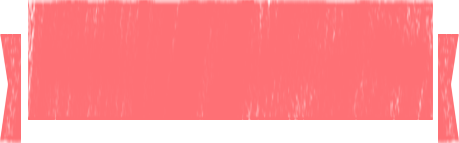
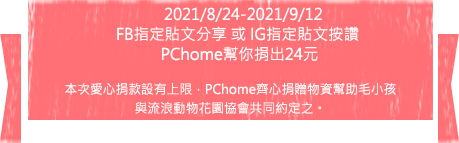
lesson2完成

diff --git a/index.html b/index.html
@@ -11,6 +11,9 @@
 </head>
 
 <body>
+
+    <div id="fb-root"></div>
+<script async defer crossorigin="anonymous" src="https://connect.facebook.net/zh_TW/sdk.js#xfbml=1&version=v14.0" nonce="Nq3a1DJ4"></script>
     <!-- 切版的模式 -->
 
     <div class="main">
@@ -45,7 +48,7 @@
                             </div>
                         </div>
                         <!-- 箭頭 -->
-                        
+
                         <img class="lessone1_right lesson1_btn" src="img/lesson1/lesson1_right.png" alt="">
 
                     </div>
@@ -71,12 +74,44 @@
 
         </div>
         <!-- lesson2 -->
-        <div class="Main_Size lesson2"></div>
+        <div class="Main_Size lesson2">
+            <!-- title -->
+            <img class="lesson2_title" src="./img/lesson2/lesson2_title.png" alt="">
+
+            <div class="lesson2_content">
+                <img class="pc lesson2_cat" src="./img/lesson2/lesson2_cat.png" alt="">
+                <!-- 左邊的臉書 -->
+                <div class="lessone_fb">
+                    <img src="./img/lesson2/fb_top.png" alt="">
+                    <div class="fb_mid">
+                        <div class="fb-post" data-href="https://www.facebook.com/jackywuofficial/posts/pfbid022kLAE1ywqcLbXjhqGAxjGDA2k6w96Ao1BcbY24jGtzwfw2xttTJt5SVGqAYWjLPGl" data-width="500" data-show-text="true"><blockquote cite="https://www.facebook.com/jackywuofficial/posts/592603392236286" class="fb-xfbml-parse-ignore"><p>就是現在
+                            鹿希派正在直播
+                            不到10個人在看他們直播！
+                            弟兄們衝一波讓她看看什麼叫做人海～～～～❤❤</p>由<a href="https://www.facebook.com/jackywuofficial">吳宗憲 Jacky Wu</a> 發佈於&nbsp;<a href="https://www.facebook.com/jackywuofficial/posts/592603392236286">2022年7月24日 星期日</a></blockquote></div>
+                    </div>
+                    <img src="./img/lesson2/fb_btn.png" alt="">
+
+                </div>
+                <!-- 右邊的文案 -->
+                <div class="lessone_data">
+                    <p>
+                        你知道除了領養，<br>
+                        還能以助養的方式幫助毛孩嗎？<br>
+                        分享正確觀念，<br>
+                       <img class="lesson2_logo" src="./img/lesson2/lesson2_24h.png" alt="">就幫你捐出<span style="color: red;">24元</span>給流浪動物花園<br>
+                        支持愈多，捐款愈多！
+                    </p>
+                    <img src="./img/lesson2/lesson2_text.png" alt="">
+                </div>
+            </div>
+        </div>
 
     </div>
 
 
-    <script src='https://cdnjs.cloudflare.com/ajax/libs/jquery/3.5.0/jquery.min.js' integrity='sha512-k2WPPrSgRFI6cTaHHhJdc8kAXaRM4JBFEDo1pPGGlYiOyv4vnA0Pp0G5XMYYxgAPmtmv/IIaQA6n5fLAyJaFMA==' crossorigin='anonymous'></script>
+    <script src='https://cdnjs.cloudflare.com/ajax/libs/jquery/3.5.0/jquery.min.js'
+        integrity='sha512-k2WPPrSgRFI6cTaHHhJdc8kAXaRM4JBFEDo1pPGGlYiOyv4vnA0Pp0G5XMYYxgAPmtmv/IIaQA6n5fLAyJaFMA=='
+        crossorigin='anonymous'></script>
     <script src="https://unpkg.com/swiper/swiper-bundle.min.js"></script>
     <script src="all.js"></script>
 </body>

diff --git a/style.css b/style.css
@@ -197,4 +197,139 @@ img {
   right: -20%;
   width: 43%;
 }
+
+.lesson2 {
+  background-image: url(./img/lesson2/lesson2_bg.png);
+  background-position: top center;
+  position: relative;
+}
+
+@media screen and (max-width: 768px) {
+  .lesson2 {
+    background-image: url(./img/lesson2/lesson2_bg_mb.png);
+    background-repeat: no-repeat;
+    margin-top: 5vw;
+    background-size: 100% 100%;
+  }
+}
+
+.lesson2 .lesson2_cat {
+  position: absolute;
+  bottom: 10px;
+  left: 0;
+}
+
+.lesson2 .lesson2_title {
+  position: absolute;
+  right: 150px;
+  top: -30px;
+  width: 33%;
+}
+
+@media screen and (max-width: 768px) {
+  .lesson2 .lesson2_title {
+    position: static;
+    width: 60%;
+    display: block;
+    margin: 0 auto;
+    -webkit-transform: translateY(-4vw);
+            transform: translateY(-4vw);
+  }
+}
+
+.lesson2 .lesson2_content {
+  display: -webkit-box;
+  display: -ms-flexbox;
+  display: flex;
+  margin: 0 130px 0 220px;
+  padding: 50px 0;
+  border: 1px solid #000;
+  gap: 20px;
+}
+
+@media screen and (max-width: 1320px) {
+  .lesson2 .lesson2_content {
+    margin: 0 10vw 0 15vw;
+  }
+}
+
+@media screen and (max-width: 768px) {
+  .lesson2 .lesson2_content {
+    margin: 0;
+    padding: 0 3vw;
+    -webkit-box-orient: vertical;
+    -webkit-box-direction: normal;
+        -ms-flex-direction: column;
+            flex-direction: column;
+  }
+}
+
+.lesson2 .lesson2_content .lessone_fb {
+  width: 40%;
+  margin: 0;
+  padding: 0;
+}
+
+@media screen and (max-width: 768px) {
+  .lesson2 .lesson2_content .lessone_fb {
+    width: 100%;
+    -webkit-box-ordinal-group: 4;
+        -ms-flex-order: 3;
+            order: 3;
+  }
+}
+
+.lesson2 .lesson2_content .lessone_fb img {
+  width: 100%;
+}
+
+.lesson2 .lesson2_content .lessone_fb .fb_mid {
+  overflow: hidden;
+  margin-top: -4px;
+  background-image: url(./img/lesson2/fb_mid.png);
+  background-size: 100%;
+  text-align: center;
+}
+
+.lesson2 .lesson2_content .lessone_fb .fb_mid .fb-post {
+  width: 95%;
+}
+
+.lesson2 .lesson2_content .lessone_data {
+  width: 60%;
+  text-align: center;
+  font-size: 24px;
+  line-height: 50px;
+  font-weight: 600;
+  display: -webkit-box;
+  display: -ms-flexbox;
+  display: flex;
+  -webkit-box-orient: vertical;
+  -webkit-box-direction: normal;
+      -ms-flex-direction: column;
+          flex-direction: column;
+  -webkit-box-align: center;
+      -ms-flex-align: center;
+          align-items: center;
+  -webkit-box-pack: center;
+      -ms-flex-pack: center;
+          justify-content: center;
+}
+
+@media screen and (max-width: 768px) {
+  .lesson2 .lesson2_content .lessone_data {
+    width: 100%;
+    -webkit-box-ordinal-group: 2;
+        -ms-flex-order: 1;
+            order: 1;
+    line-height: 7vw;
+    font-size: 3vw;
+  }
+}
+
+@media screen and (max-width: 768px) {
+  .lesson2 .lesson2_content .lessone_data .lesson2_logo {
+    width: 34%;
+  }
+}
 /*# sourceMappingURL=style.css.map */

diff --git a/style.scss b/style.scss
@@ -140,3 +140,100 @@ img {
         }
     }
 }
+
+.lesson2 {
+    background-image: url(./img/lesson2/lesson2_bg.png);
+    background-position: top center;
+    // height: 750px;
+    position: relative;
+    @media screen and(max-width:768px) {
+        background-image: url(./img/lesson2/lesson2_bg_mb.png);
+        background-repeat: no-repeat;
+        margin-top: 5vw;
+        background-size: 100% 100%;
+    }
+    // cat
+    .lesson2_cat {
+        position: absolute;
+        bottom: 10px;
+        left: 0;
+    }
+    .lesson2_title {
+        position: absolute;
+        right: 150px;
+        top: -30px;
+        width: 33%;
+        @media screen and(max-width:768px) {
+            position: static;
+            width: 60%;
+            display: block;
+            margin: 0 auto;
+            transform: translateY(-4vw);
+        }
+    }
+    .lesson2_content {
+        display: flex;
+        margin: 0 130px 0 220px;
+        padding: 50px 0;
+        border: $main_border;
+        gap: 20px;
+        @media screen and(max-width:1320px) {
+            margin: 0 10vw 0 15vw;
+        }
+        @media screen and(max-width:768px) {
+            margin: 0;
+            padding: 0 3vw;
+            flex-direction: column;
+        }
+        .lessone_fb {
+            width: 40%;
+            margin: 0;
+            padding: 0;
+            @media screen and(max-width:768px) {
+                width: 100%;
+                order:3;
+            }
+            img {
+                width: 100%;
+
+                // height: 100%;
+            }
+            .fb_mid {
+                overflow: hidden;
+                margin-top: -4px;
+                // padding: 0 10px;
+                background-image: url(./img/lesson2/fb_mid.png);
+                background-size: 100%;
+                text-align: center;
+                .fb-post {
+                    width: 95%;
+                   
+                }
+            }
+        }
+        .lessone_data {
+            width: 60%;
+            text-align: center;
+            font-size: 24px;
+            line-height: 50px;
+            font-weight: 600;
+            display: flex;
+            flex-direction: column;
+            align-items: center;
+            justify-content: center;
+            @media screen and(max-width:768px) {
+                width: 100%;
+                order:1;
+                line-height: 7vw;
+                font-size: 3vw;
+                // font-weight: 400;
+            }
+            
+            .lesson2_logo{
+                @media screen and(max-width:768px) {
+                    width: 34%;
+                }
+            }
+        }
+    }
+}
